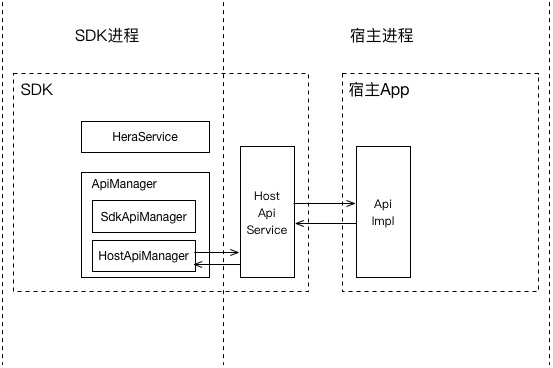
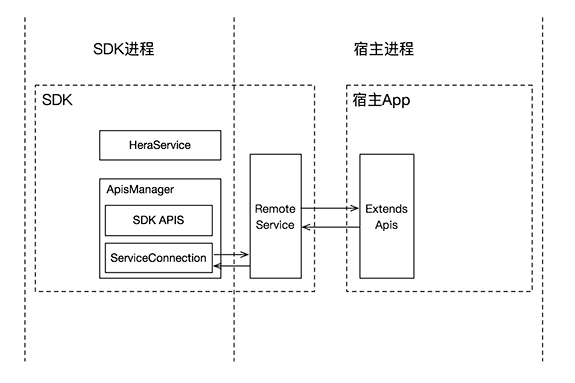
update docs

diff --git a/docs/zh-cn/Others/API-Extend.md b/docs/zh-cn/Others/API-Extend.md
@@ -23,59 +23,61 @@ module.exports = {
 
 ### 调用接收
 
-在Native端，开发者需要在Hera框架初始化时提供一个实现了 `IHostApiDispatcher` 接口的对象，通过该接口的 `dispatch` 方法可以对来自小程序业务端的API调用事件进行接收和处理.
+在Native端，开发者需要在Hera框架初始化时通过addExtendsApi方法添加自定义的扩展api（实现IApi接口或继承AbsApi类），业务调用时会自动查找并调用。
+
+`IApi` 接口的定义
 
 ```java
-@Override
-public void dispatch(String event, //事件名称，即api名称
-                        String param, //调用参数
-                        IHostApiCallback apiCallback //回调接口
-) {
-    //此处处理api调用
-    //处理完毕后应调用IHostApiCallback的回调方法将结果回传，否则调用的api将收不到结果
+public interface IApi extends ILifecycle {
+
+    /**
+     * @return 支持可调用的api名称的数组
+     */
+    String[] apis();
+
+    /**
+     * 接收到对应的api调用时，会调用此方法，在此方法中处理api调用的功能逻辑
+     *
+     * @param event    事件名称，即api名称
+     * @param param    参数
+     * @param callback 回调接口
+     */
+    void invoke(String event, JSONObject param, ICallback callback);
 }
-```
-
-`IHostApiCallback` 接口的定义
-
-```java
-/**
- * 结果的回调方法
- *
- * @param status 状态码，参考以下状态码说明，无效值按'UNDEFINE'处理
- * @param result json结果
- */
-void onResult(int status, JSONObject result);
-
-/**
- * 成功状态码，即api调用成功，将结果返回
- */
-SUCCEED;
-
-/**
- * 失败状态码，即api调用失败
- */
-FAILED;
-
-/**
- * 未定义状态码，即调用的api不存在或未实现
- */
-UNDEFIN;
-
-/**
- * 中间状态，与"openPageForResult" api配合使用，
- * 用与打开其他Activity页面并接收其返回的结果，参考sample示例
- */
-PENDING;
 ```
 
 ### 结果返回
 
-当事件处理完毕后，通过 `IHostApiDispatcher` 接口对象的 `onResult` 方法将调用结果返回。如下：
+当事件处理完毕后，通过 `ICallback` 接口的方法将调用结果返回。接口定义如下：
 
 ```java
-onResult(IHostApiDispatcher.SUCCEED, resultJson); //处理调用成功的结果返回
-onResult(IHostApiDispatcher.FAILED, null); //处理调用失败的结果返回
+public interface ICallback {
+
+    /**
+     * Api调用成功
+     *
+     * @param result Api调用返回的结果
+     */
+    void onSuccess(JSONObject result);
+
+    /**
+     * Api调用失败
+     */
+    void onFail();
+
+    /**
+     * Api调用取消
+     */
+    void onCancel();
+
+    /**
+     * 回调{@link android.app.Activity#startActivityForResult(Intent, int)}方法
+     *
+     * @param intent
+     * @param requestCode
+     */
+    void startActivityForResult(Intent intent, int requestCode);
+}
 ```
 
 ## iOS 端

diff --git a/android/README.md b/android/README.md
@@ -39,7 +39,7 @@ public class HeraApplication extends Application {
         //在主进程中初始化框架配置，启动框架服务进程
         if (HeraTrace.isMainProcess(this)){
             HeraConfig config = new HeraConfig.Builder()
-                    .setHostApiDispatcher(new HostApiDispatcher(this)) // 自定义扩展API配置
+                    .addExtendsApi(new XxxApi()) // 添加自定义扩展API，可连续调用添加或传入一组api列表
                     .setDebug(true) // 调试模式
                     .build();
             HeraService.start(this.getApplicationContext(), config);
@@ -48,7 +48,7 @@ public class HeraApplication extends Application {
 }
 ```
 
-其中 `setHostApiDispatcher` 用于进行自定义扩展API相关配置。详见[自定义扩展API](../docs/zh-cn/Others/API-Extend.md)
+其中 `addExtendsApi` 用于添加自定义扩展API。详见[自定义扩展API](../docs/zh-cn/Others/API-Extend.md)
 
 ## 打开小程序页面
 

diff --git a/android/docs/impl-detail.md b/android/docs/impl-detail.md
@@ -8,6 +8,6 @@ SDK Native层[`HeraActivity`]作为逻辑流程控制中心，建立了页面视
 ![](assets/logical.jpg)
 
 ### API实现
-SDK本身提供了丰富的[API](../Others/API.md)实现，同时也提供了扩展API的接口，方便被接入的App实现自定义的API功能。由于SDK运行于独立进程，因此通过进程通信的方式调用宿主提供的扩展API。`SdkApiManager`和`HostApiManager`分别对应SDK内部API的管理和扩展API的管理。
+SDK本身提供了丰富的[API](../../docs/zh-cn/Others/API.md)实现，同时也提供了扩展API的接口，方便被接入的App实现自定义的API功能。由于SDK运行于独立进程，因此通过进程通信的方式调用宿主提供的扩展API。
 
 ![](assets/extapi.jpg)

diff --git a/docs/zh-cn/Android/impl-detail.md b/docs/zh-cn/Android/impl-detail.md
@@ -8,6 +8,6 @@ SDK Native层[`HeraActivity`]作为逻辑流程控制中心，建立了页面视
 ![](assets/impl/logical.jpg)
 
 ### API实现
-SDK本身提供了丰富的[API](../Others/API.md)实现，同时也提供了扩展API的接口，方便被接入的App实现自定义的API功能。由于SDK运行于独立进程，因此通过进程通信的方式调用宿主提供的扩展API。`SdkApiManager`和`HostApiManager`分别对应SDK内部API的管理和扩展API的管理。
+SDK本身提供了丰富的[API](../Others/API.md)实现，同时也提供了扩展API的接口，方便被接入的App实现自定义的API功能。由于SDK运行于独立进程，因此通过进程通信的方式调用宿主提供的扩展API。
 
 ![](assets/impl/extapi.jpg)
